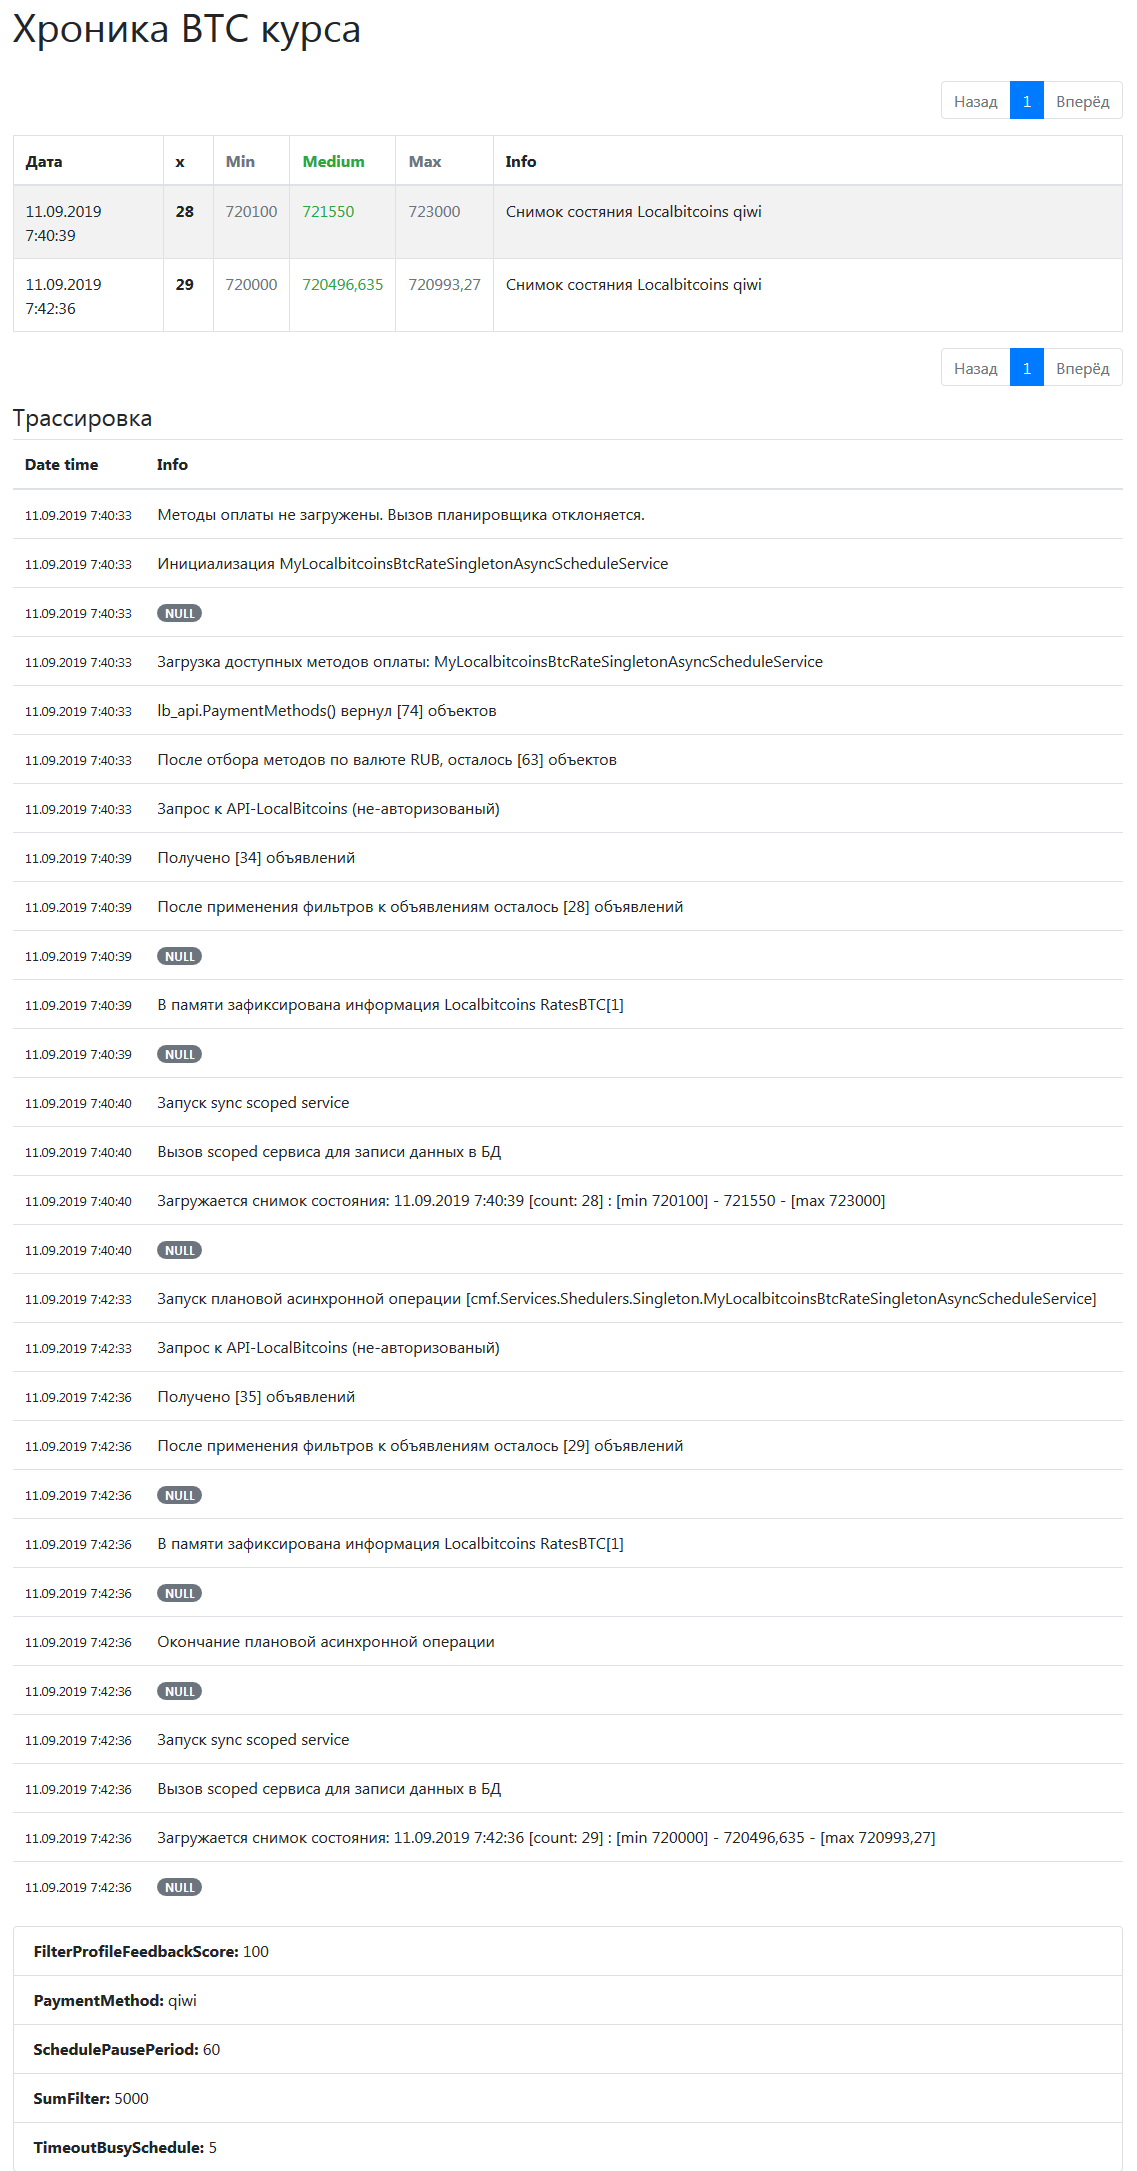
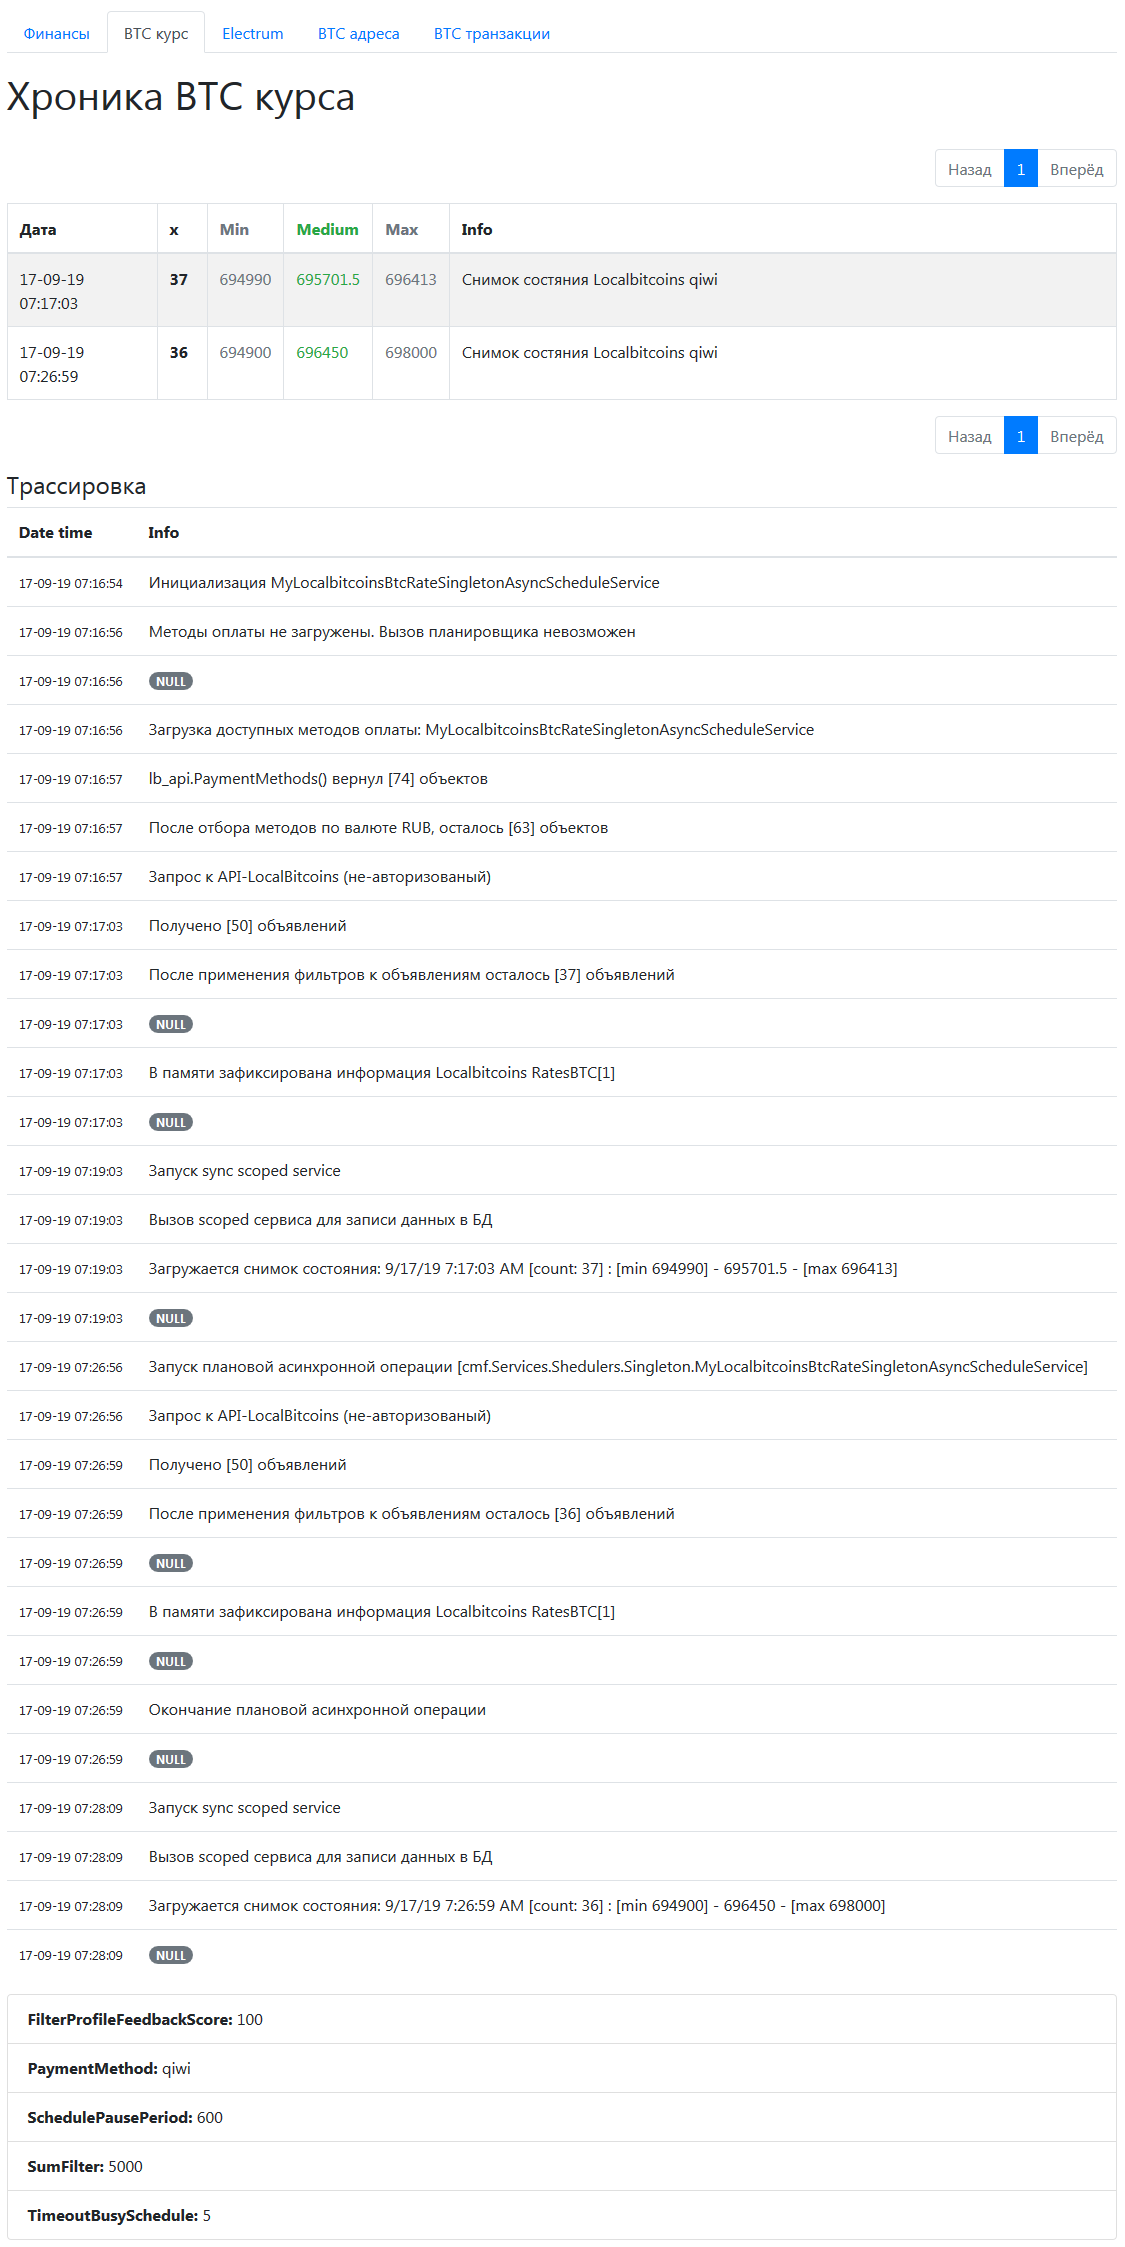
~

diff --git a/Scoped/ElectrumScopedSyncScheduler/ElectrumScopedSyncScheduleService.cs b/Scoped/ElectrumScopedSyncScheduler/ElectrumScopedSyncScheduleService.cs
@@ -21,7 +21,7 @@ namespace ElectrumScopedSyncScheduler
         public ElectrumScopedSyncScheduleService(DbContext set_db, ElectrumJsonRpcSingletonAsyncScheduleService set_async_electrum_schedule_service)
             : base(set_db, set_async_electrum_schedule_service)
         {
-            if (IsReady)
+            if (IsReady && AsyncElectrumScheduleService.Transactions.Count > 0)
             {
                 BasicSingletonService.SetStatus("Запуск sync scoped service", StatusTypes.DebugStatus);
                 SyncUpdate();
@@ -33,6 +33,8 @@ namespace ElectrumScopedSyncScheduler
         {
             lock (AsyncElectrumScheduleService.Transactions)
             {
+                AsyncElectrumScheduleService.SetStatus("Сверка транзакций из Electrum ["+ AsyncElectrumScheduleService.Transactions.Count + " элементов] с базой данных");
+                bool exist_new_tx = false;
                 foreach (TransactionWalletHistoryResponseClass TransactionWallet in AsyncElectrumScheduleService.Transactions.Where(x => x.confirmations > MinRequedCountConfirmations))
                 {
                     if (string.IsNullOrWhiteSpace(TransactionWallet.txid))
@@ -42,7 +44,6 @@ namespace ElectrumScopedSyncScheduler
                         continue;
                     }
 
-                    AsyncElectrumScheduleService.SetStatus("Поиск входящей транзакции в базе данных > SingleOrDefault(x => x.TxId == TransactionWallet.txid) // '" + TransactionWallet.txid + "'");
                     BtcTransactionModel btcTransaction;
                     try
                     {
@@ -57,6 +58,8 @@ namespace ElectrumScopedSyncScheduler
 
                     if (btcTransaction is null)
                     {
+                        exist_new_tx = true;
+                        AsyncElectrumScheduleService.SetStatus("Новая транзакция для записи в БД: " + TransactionWallet.ToString());
                         btcTransaction = new BtcTransactionModel()
                         {
                             TxId = TransactionWallet.txid,
@@ -68,6 +71,7 @@ namespace ElectrumScopedSyncScheduler
 
                         foreach (TransactionWalletHistoryResponseOutputsClass TransactionOut in TransactionWallet.outputs.Where(x => AsyncElectrumScheduleService.ElectrumClient?.IsAddressMine(x.address)?.result == true))
                         {
+                            AsyncElectrumScheduleService.SetStatus("Запись нового TxOut: " + TransactionOut.ToString());
                             BtcTransactionOutModel btcTransactionOut = new BtcTransactionOutModel()
                             {
                                 BtcTransactionModelId = btcTransaction.Id,
@@ -83,6 +87,7 @@ namespace ElectrumScopedSyncScheduler
                             UserModel user = db.Set<UserModel>().SingleOrDefault(x => x.BitcoinAddress == TransactionOut.address);
                             if (!(user is null))
                             {
+                                AsyncElectrumScheduleService.SetStatus("Пользователь найден: "+ user.ToString());
                                 btcTransactionOut.UserId = user.Id;
                                 db.Update(btcTransactionOut);
                                 //
@@ -103,10 +108,15 @@ namespace ElectrumScopedSyncScheduler
                                 });
                                 db.SaveChanges();
                             }
+                            else
+                                AsyncElectrumScheduleService.SetStatus("Пользователь с таким BTC адресом НЕ найден. Транзакция не будет зачислена пользователю");
                         }
                     }
                 }
+                if(!exist_new_tx)
+                    AsyncElectrumScheduleService.SetStatus("В Electrum нет ни одной новой транзакции");
                 AsyncElectrumScheduleService.SetStatus(null);
+                AsyncElectrumScheduleService.Transactions.Clear();
             }
         }
 

diff --git a/Singleton/AbstractAsyncScheduler/BasicSingletonAsyncScheduler.cs b/Singleton/AbstractAsyncScheduler/BasicSingletonAsyncScheduler.cs
@@ -21,7 +21,7 @@ namespace AbstractAsyncScheduler
         /// <summary>
         /// Максимальный размер транзитных данных
         /// </summary>
-        public int MaxSizeTransit { get; protected set; } = 50;
+        public int MaxSizeTransit { get; protected set; } = 1000;
 
         /// <summary>
         /// Разрешённая длительность (в секундах) планировщику на выполнение задачи
@@ -31,7 +31,7 @@ namespace AbstractAsyncScheduler
         /// <summary>
         /// Максимальный размер стека трассировки статуса планировщика
         /// </summary>
-        public int MaximumSizeSchedulerStatusTraceStack { get; private set; } = 100; // максимальный размер хранилища логов 100 строк
+        public int MaximumSizeSchedulerStatusTraceStack { get; private set; } = 500; // максимальный размер хранилища логов 100 строк
 
         /// <summary>
         /// Максимальный срок хранения (в секундах) записи в стеке трассировки статуса планировщика
@@ -39,7 +39,7 @@ namespace AbstractAsyncScheduler
         public int MaximumLifetimeSchedulerStatusTrace { get; private set; } = 60 * 60 * 3; // максимальный срок хранения логов 3 часа
 
         /// <summary>
-        /// Паузы между выполнениями команды. Будет считаться с момента перехода планировщика в режим готовности
+        /// Паузы [в секундах] между выполнениями команды. Будет считаться с момента перехода планировщика в режим готовности
         /// </summary>
         public int SchedulePausePeriod { get; set; }
 

diff --git a/Scoped/LocalbitcoinsBtcRateScopedSyncScheduler/LocalbitcoinsBtcRateScopedSyncScheduleService.cs b/Scoped/LocalbitcoinsBtcRateScopedSyncScheduler/LocalbitcoinsBtcRateScopedSyncScheduleService.cs
@@ -74,7 +74,7 @@ namespace LocalbitcoinsBtcRateScopedSyncScheduler
                     db.SaveChanges();
                     AsyncLocalbitcoinsBtcRateScheduleService.SetStatus("Загружается снимок состояния: " + btcRate.ToString());
                 }
-                AsyncLocalbitcoinsBtcRateScheduleService.RatesBTC = new ConcurrentBag<BtcRateLocalbitcoinsModel>();
+                AsyncLocalbitcoinsBtcRateScheduleService.RatesBTC.Clear();
             }
             //if (AsyncScheduleService.LastChangeStatusDateTime.AddSeconds(AsyncScheduleService.SchedulePausePeriod) < DateTime.Now)
             //    AsyncScheduleService.InvokeAsyncSchedule();

diff --git a/Singleton/LocalbitcoinsBtcRateSingletonAsyncScheduler/LocalbitcoinsBtcRateSingletonAsyncScheduleService.cs b/Singleton/LocalbitcoinsBtcRateSingletonAsyncScheduler/LocalbitcoinsBtcRateSingletonAsyncScheduleService.cs
@@ -59,7 +59,6 @@ namespace LocalbitcoinsBtcRateSingletonAsyncScheduler
         {
             
             lb_api = new LocalBitcoins_API(set_local_bitcoins_api_auth_key, set_auth_secret);
-
             UpdatePaymentMethodsAsync();
         }
 
